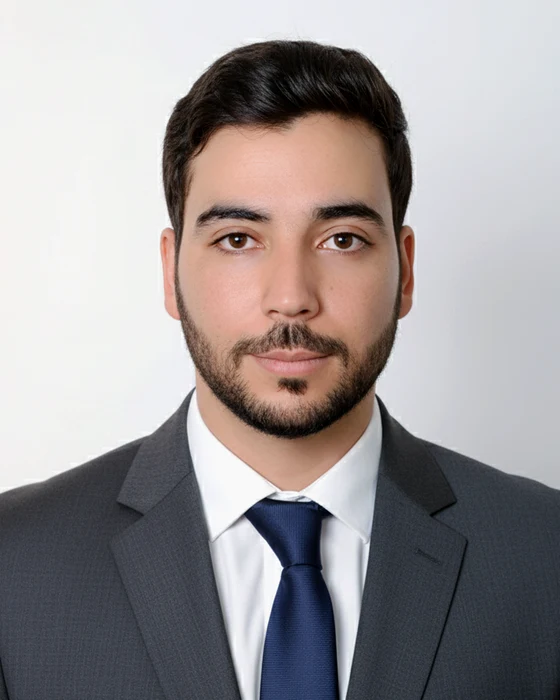
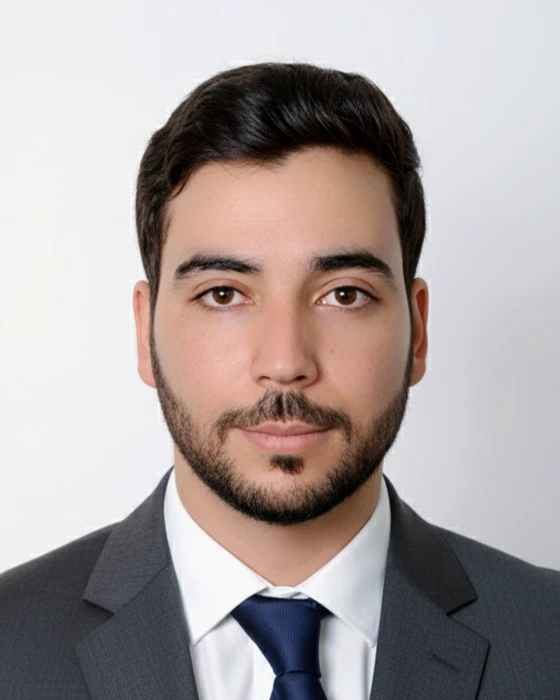
Use the updated portrait photo
Claude-Session: https://claude.ai/code/session_01MoxpF6B3ETWoJCqjnrggrt

diff --git a/index.html b/index.html
@@ -9,13 +9,13 @@
   <meta name="theme-color" content="#ffffff" />
   <meta property="og:title" content="Taoufik Rachdi — Test Bench Engineer" />
   <meta property="og:description" content="Test bench design & PCB development for aeronautical equipment · ex-automotive validation lead (Renault IVI)." />
-  <meta property="og:image" content="assets/profile-suit.webp" />
+  <meta property="og:image" content="assets/profile-suit.webp?v=2" />
   <link rel="icon" type="image/png" href="assets/logo.png" />
   <link rel="preconnect" href="https://fonts.googleapis.com" />
   <link rel="preconnect" href="https://fonts.gstatic.com" crossorigin />
   <link href="https://fonts.googleapis.com/css2?family=IBM+Plex+Sans:wght@500;600;700&family=Inter:wght@400;500;600&family=IBM+Plex+Mono:wght@500&display=swap" rel="stylesheet" />
   <link href="https://cdn.jsdelivr.net/npm/bootstrap-icons@1.11.3/font/bootstrap-icons.min.css" rel="stylesheet" />
-  <link href="css/styles.css?v=20" rel="stylesheet" />
+  <link href="css/styles.css?v=21" rel="stylesheet" />
 </head>
 <body id="top">
 
@@ -107,7 +107,7 @@
             <span class="pin1"></span>
             <span class="scanline"></span>
             <div class="portrait">
-            <img src="assets/profile-suit.webp" alt="Portrait of Taoufik Rachdi" width="560" height="700" />
+            <img src="assets/profile-suit.webp?v=2" alt="Portrait of Taoufik Rachdi" width="560" height="700" />
             </div>
             <span class="chip-label">U1 · T.RACHDI · TBE-2026</span>
           </div>
@@ -489,6 +489,6 @@
     <svg class="to-top-arrow" viewBox="0 0 24 24" aria-hidden="true"><path d="M12 19V5M5.5 11.5L12 5l6.5 6.5" fill="none" stroke="currentColor" stroke-width="2.2" stroke-linecap="round" stroke-linejoin="round"/></svg>
   </a>
 
-  <script src="js/scripts.js?v=20"></script>
+  <script src="js/scripts.js?v=21"></script>
 </body>
 </html>
